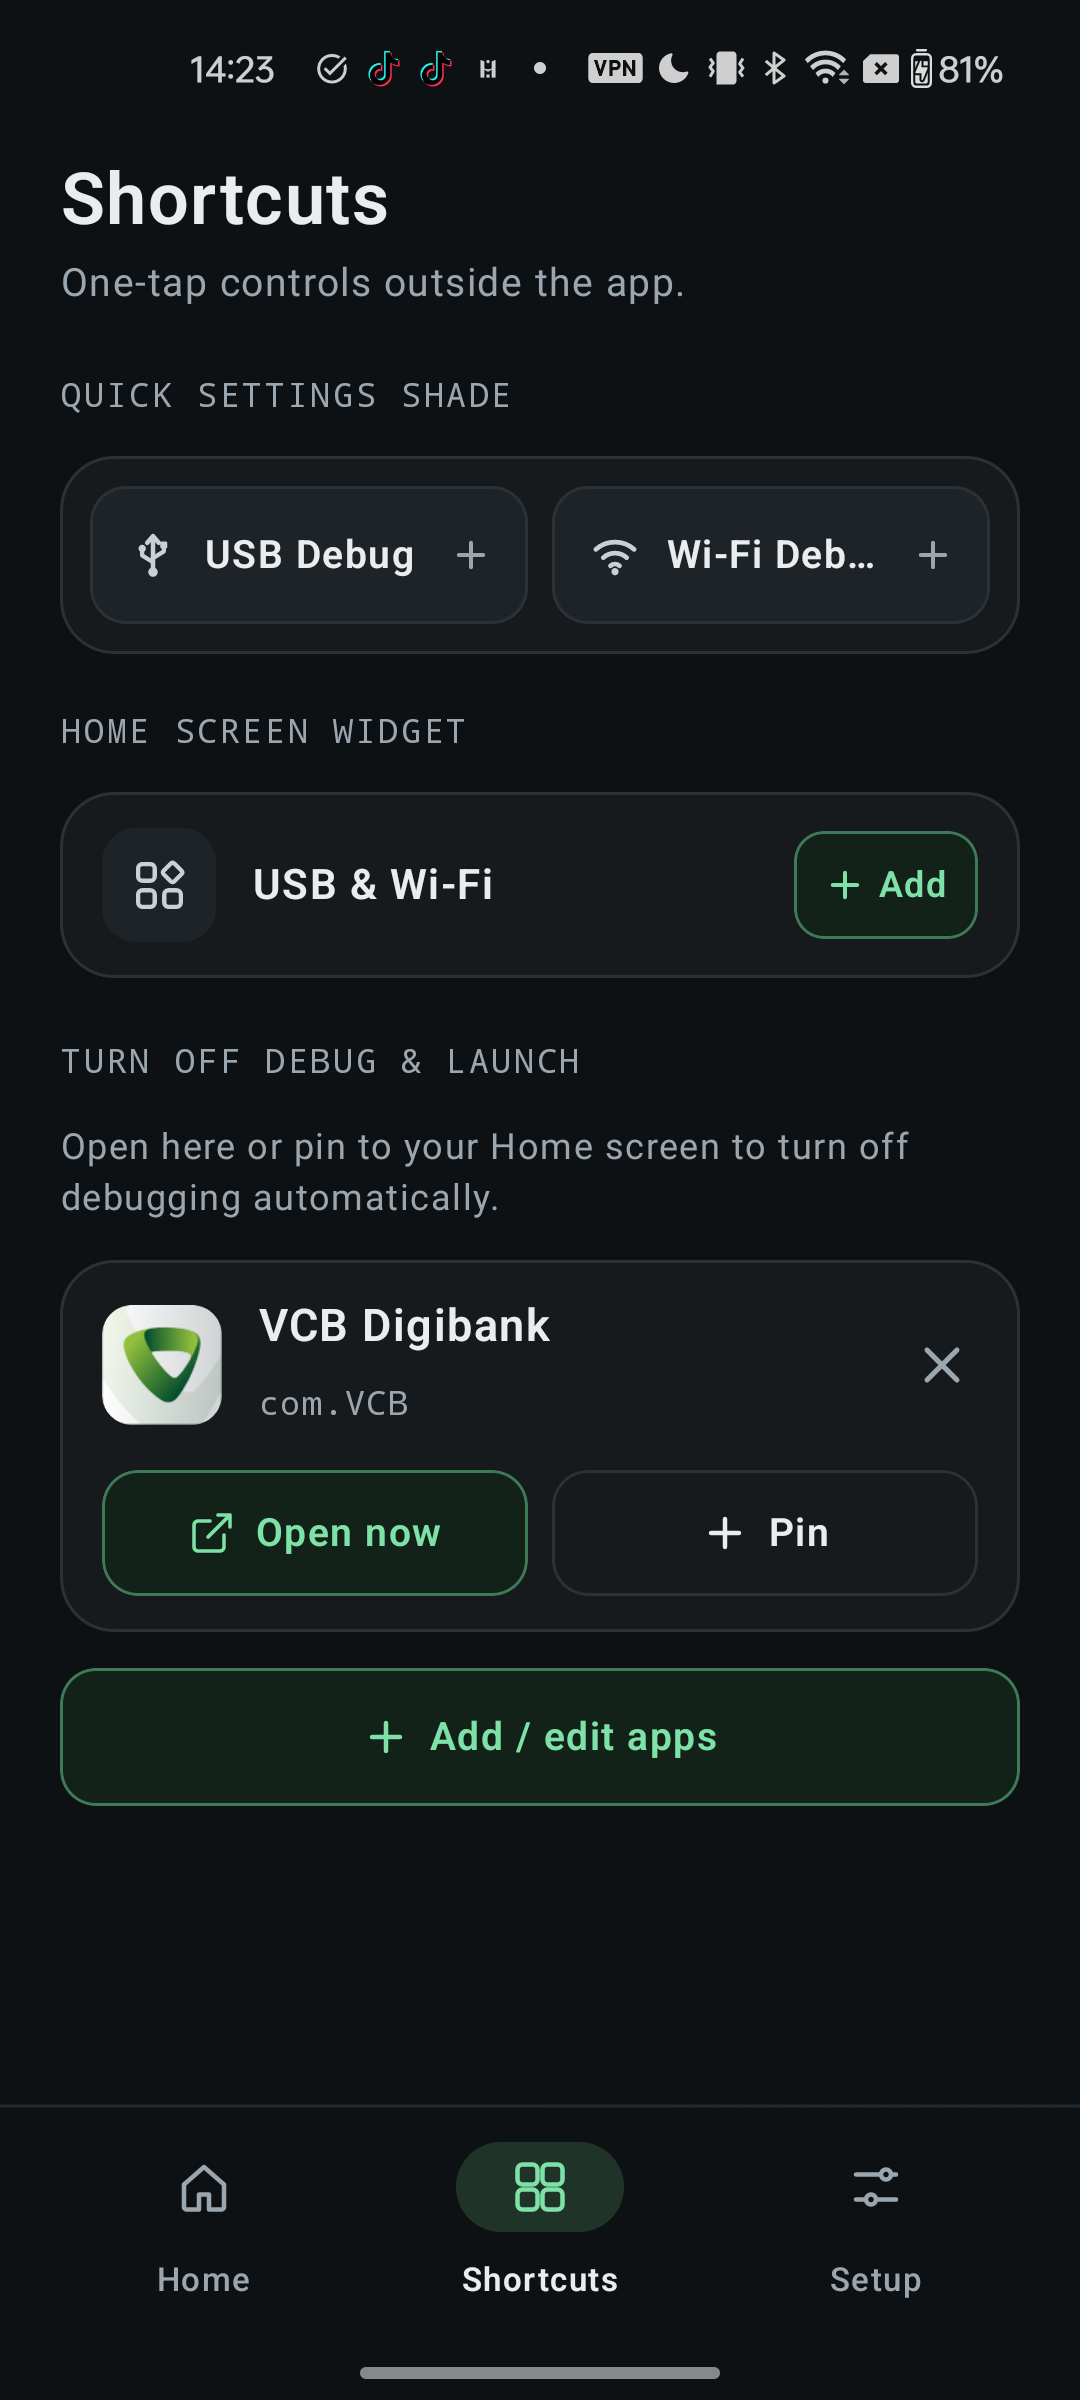
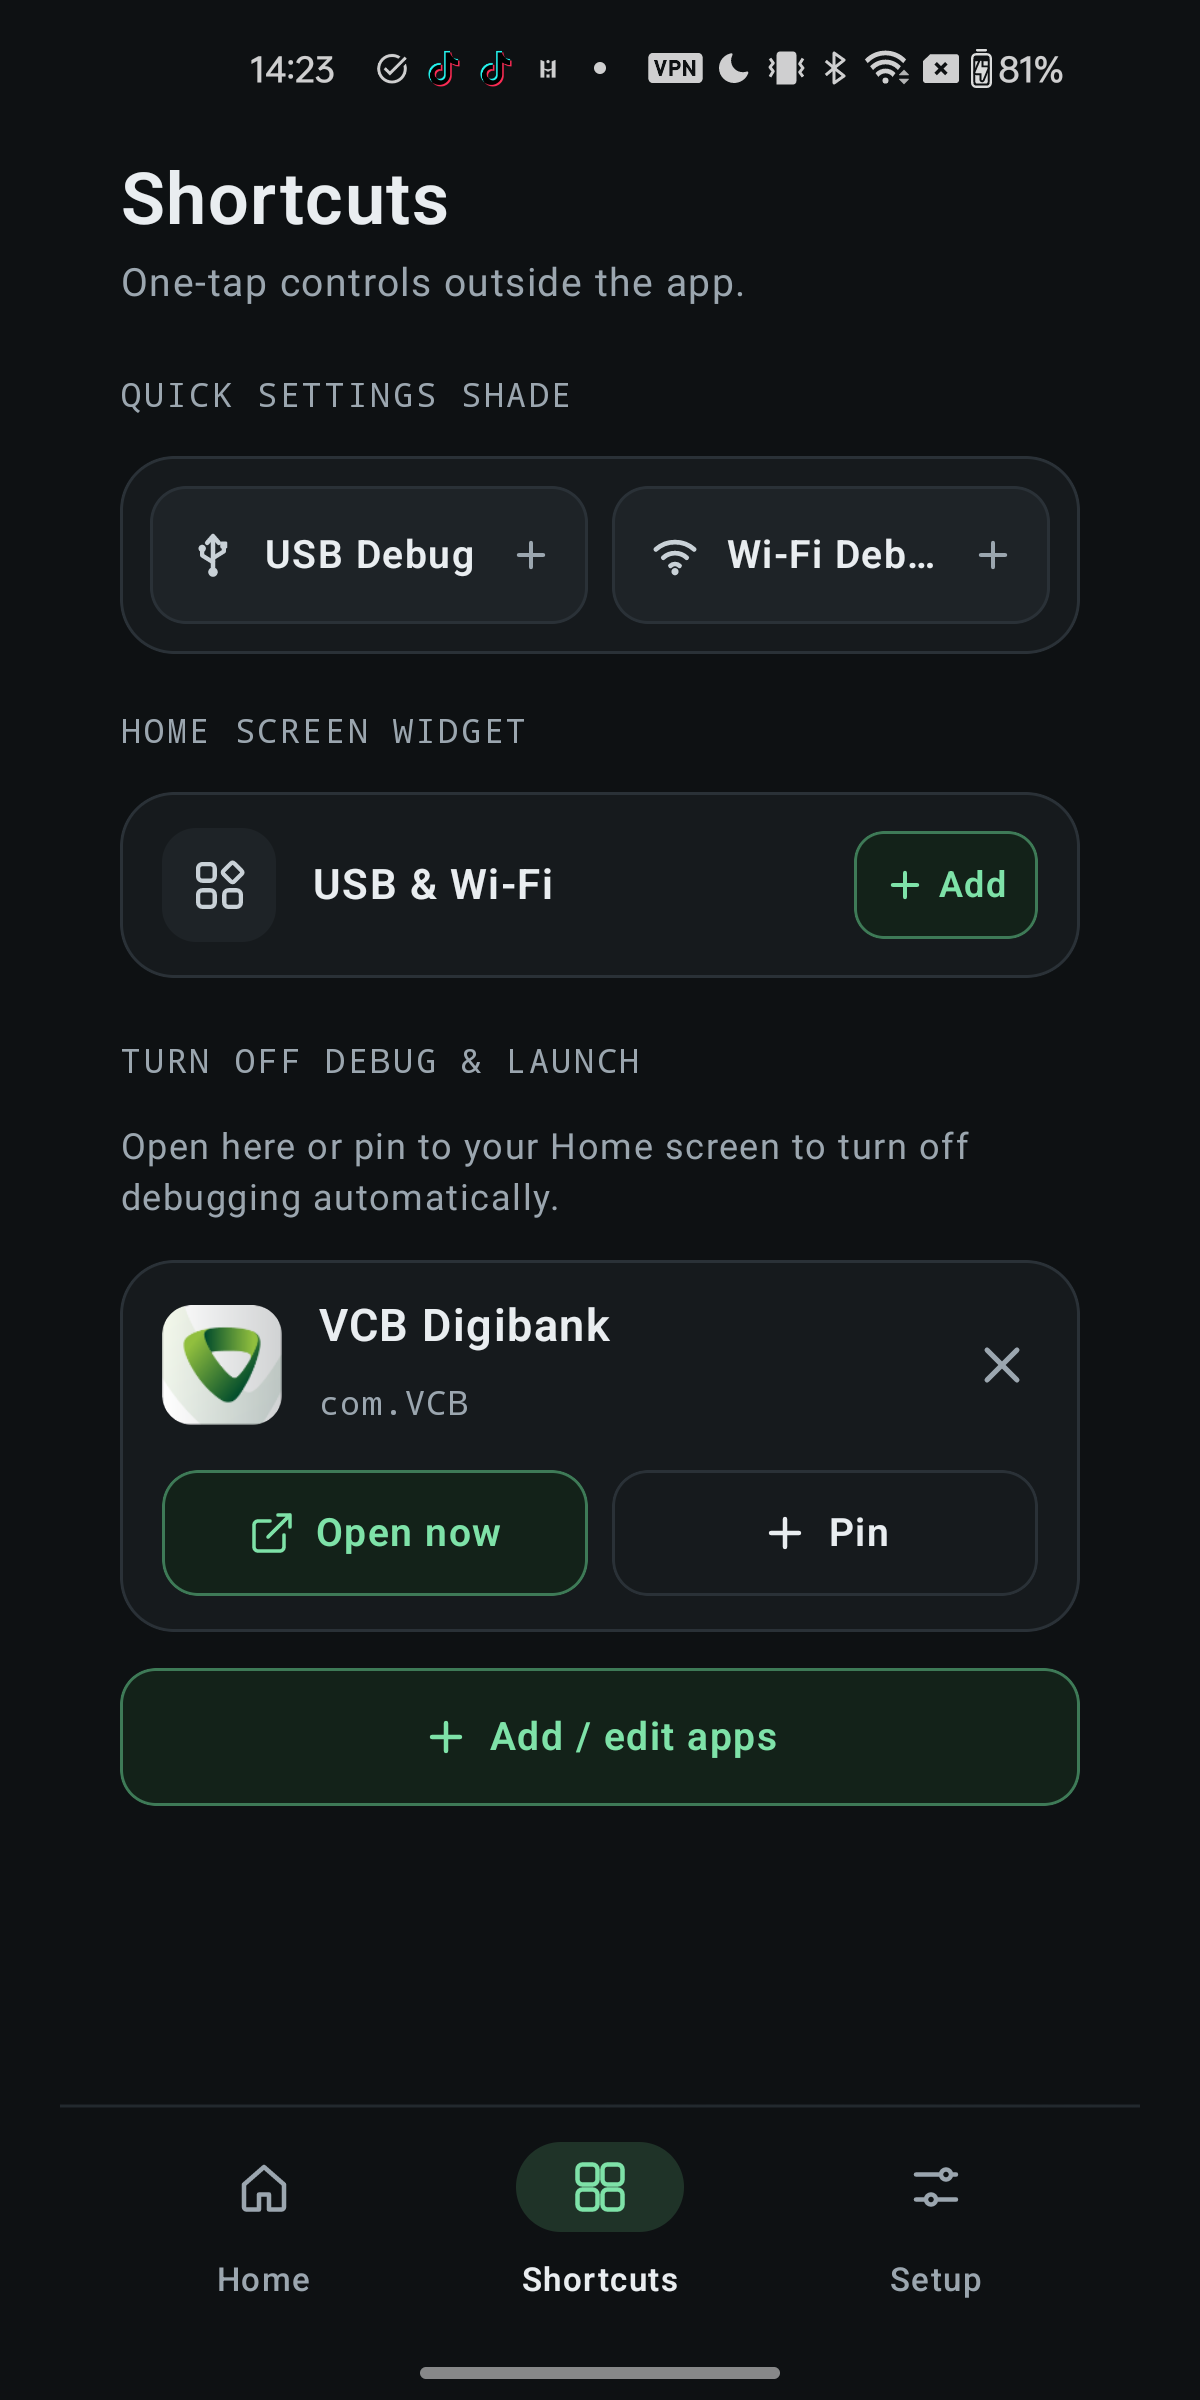
docs(store): make Play listing assets compliant and refresh descriptions
- Pad phone screenshots to 1200x2400 (Play max 2:1 aspect ratio) and strip
  the alpha channel from screenshots and the feature graphic (24-bit PNG).
- Describe the optional per-app auto turn-off feature (foreground service +
  Usage Access) and drop the outdated "zero background services" and
  setWindow claims in en-US/vi descriptions, README and SPEC; replace the
  VNeID brand mention with generic wording.
- Add developer contact, diagnostics export, children and change-log
  sections to the privacy policy.
- Rewrite the Google Play section of RELEASE.md: Play App Signing with the
  existing key, App content answers, reviewer instructions, and the
  specialUse foreground service declaration text and video script.

diff --git a/PRIVACY.md b/PRIVACY.md
@@ -1,6 +1,9 @@
 # Privacy Policy — Vibe Debug (USB Debug Switch)
 
 **Effective date:** 2026-11-23  
+**Last updated:** 2026-11-24  
+**Developer:** xom11 (<https://github.com/xom11>)  
+**Contact:** <https://github.com/xom11/vibe-debug/issues>  
 **License:** GPL-3.0-or-later  
 
 ## English
@@ -19,6 +22,13 @@
    - This app list is never stored off-device or transmitted anywhere.
 5. **Local Preferences (`android:allowBackup="false"`):**
    - Your selected theme, Safe Launch allowlist, per-app modes, auto-off timer duration, and quick-tile flags are stored locally in private `SharedPreferences` with Android cloud backup disabled. Uninstalling the app deletes all local preferences immediately.
+6. **Device Diagnostics (user-initiated only):**
+   - The *Copy device diagnostics* button in Setup copies a plain-text report (app version, device manufacturer/model, Android version, locale, permission and debug-setting states, home launcher package, and which widget/tile surfaces are added) to your clipboard. It contains no account, contact, location, or usage-history data.
+   - Vibe Debug never sends this report anywhere; it only leaves your device if you paste it somewhere yourself.
+7. **Children:** Vibe Debug is a developer utility and is not directed at children.
+8. **Changes & Contact:**
+   - Any change to this policy is published in this file with a new *Last updated* date.
+   - Questions or requests: open an issue at <https://github.com/xom11/vibe-debug/issues>.
 
 ---
 
@@ -37,3 +47,10 @@
    - Chỉ được dùng cục bộ trong hộp thoại chọn app của tính năng *Tắt gỡ lỗi & Mở app* để bạn tự chọn ứng dụng cần bảo vệ; tuyệt đối không ghi ra ngoài hay gửi đi đâu.
 5. **Lưu trữ cục bộ (`android:allowBackup="false"`):**
    - Giao diện, danh sách app, chế độ từng app và cài đặt hẹn giờ chỉ lưu trong `SharedPreferences` riêng của ứng dụng và đã tắt sao lưu đám mây; xoá app là xoá sạch dữ liệu ngay lập tức.
+6. **Thông tin chẩn đoán (chỉ khi bạn bấm):**
+   - Nút *Sao chép thông tin chẩn đoán* trong tab Thiết lập chép vào bộ nhớ tạm một báo cáo dạng văn bản (phiên bản app, hãng/dòng máy, phiên bản Android, ngôn ngữ, trạng thái quyền và cài đặt gỡ lỗi, gói launcher đang dùng, widget/ô Cài đặt nhanh đã thêm). Báo cáo không chứa tài khoản, danh bạ, vị trí hay lịch sử sử dụng.
+   - Vibe Debug không gửi báo cáo này đi đâu; nó chỉ rời khỏi máy khi chính bạn dán vào nơi khác.
+7. **Trẻ em:** Vibe Debug là công cụ cho nhà phát triển, không hướng tới trẻ em.
+8. **Thay đổi & liên hệ:**
+   - Mọi thay đổi của chính sách này được cập nhật trong file này kèm ngày *Last updated* mới.
+   - Câu hỏi hoặc yêu cầu: mở issue tại <https://github.com/xom11/vibe-debug/issues>.

diff --git a/README.md b/README.md
@@ -23,7 +23,7 @@ A clean, zero-ad, zero-internet-permission Android utility (**Vibe Debug**, `io.
   - Once `android.permission.WRITE_SECURE_SETTINGS` is granted once via ADB or Shizuku (including the `adb install-multiple -r -g` flow for ColorOS / OxygenOS 15–16+), the app automatically upgrades into **1-Tap Mode** across the app, **2 focused Quick Settings tiles** (**USB Debug**, **Wireless Debug**), and **1 unified adaptive Home Screen widget** (**USB & Wi-Fi**) scaling cleanly across 7 size tiers (`1×1` → `2×1` → `3×1` → `4×1` → `2×2` → `4×2`).
   - Also supports automatically keeping the screen awake while USB Debugging is active (`keepAwakeOnUsb`) and surfaces clear feedback when Wireless Debugging requires an active Wi-Fi connection (instead of 5G/mobile data).
   - **Auto-Off per App & Clean Launch:** In **Shortcuts**, select strict apps (banking, digital ID, e-wallet, security-sensitive apps) and optionally enable **Auto-turn off when opening apps** (`UsageStatsManager`, zero `AccessibilityService`) so opening their regular launcher icon automatically disables Developer Options or USB/Wi-Fi debugging and restores them ~8 seconds after leaving — or pin badged 1×1 Clean Launch shortcuts.
-  - **Safety Auto-Off Timer (15 / 30 / 60 min):** Uses Android's battery-friendly inexact `AlarmManager.setWindow` (no `SCHEDULE_EXACT_ALARM`) to turn USB Debugging back off automatically.
+  - **Safety Auto-Off Timer (15 / 30 / 60 min):** Uses Android's battery-friendly inexact `AlarmManager.setAndAllowWhileIdle` (no `SCHEDULE_EXACT_ALARM`) to turn USB Debugging back off automatically.
 - **Crafted adaptive 3-tab Obsidian & Mint UI:**
   - Home, Shortcuts, and Setup tabs adapting automatically between phone portrait (`BottomNavBar` single-column) and foldables / tablets / landscape (`SideNavRail` + 2-column dashboard), with System / Dark / Light theme switching, Android 13+ in-app English/Vietnamese language switching, and MDM enterprise policy awareness (`UserManager.DISALLOW_DEBUGGING_FEATURES`).
 - **Privacy by design:** Zero `INTERNET`, zero `ACCESS_NETWORK_STATE`, zero `AccessibilityService`, zero `SYSTEM_ALERT_WINDOW`, zero `QUERY_ALL_PACKAGES`, zero ads, zero analytics, and disabled AGP `dependenciesInfo` / `vcsInfo` for clean F-Droid reproducible builds.

diff --git a/SPEC.md b/SPEC.md
@@ -95,12 +95,12 @@ The app uses a responsive 3-tab layout (`HomeTab`, `ShortcutsTab`, `SetupTab`) s
     - **Other brands:** Shows `pm grant` plus reinstall fallback.
 - **USB Debug Automation (Mode B only):**
   - `Keep screen awake while USB Debugging` (`keepAwakeOnUsb`): automatically sets `stay_on_while_plugged_in = 7` and `FLAG_KEEP_SCREEN_ON` when USB Debugging turns ON, and restores `0` when USB Debugging turns OFF across all surfaces.
-  - Auto-Off timer toggle + `15 / 30 / 60 min` segmented control (disabled with clear *"Requires 1-Tap Mode"* helper text in Mode A). Uses standard inexact `AlarmManager.setWindow` via `AutoOffManager` & `AutoOffReceiver`.
+  - Auto-Off timer toggle + `15 / 30 / 60 min` segmented control (disabled with clear *"Requires 1-Tap Mode"* helper text in Mode A). Uses standard inexact `AlarmManager.setAndAllowWhileIdle` via `AutoOffManager` & `AutoOffReceiver`.
 - **Appearance & Behavior:**
   - Theme selector (`System` | `Dark` | `Light`).
   - In-app Language selector (`System` | `Tiếng Việt` | `English`) on Android 13+.
   - Auto-jump to USB Debugging on launch toggle (shown only in Mode A; OFF by default).
-- **Privacy & Version Card:** Zero network, zero background services guarantee + version readout.
+- **Privacy & Version Card:** Zero network, no ads/analytics guarantee (developer flags change only on user action or optional on-device per-app rules) + version readout.
 
 ---
 
